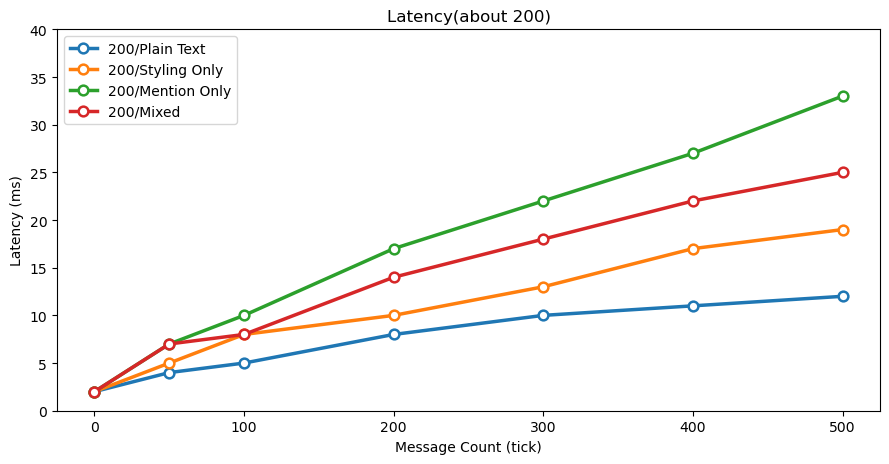
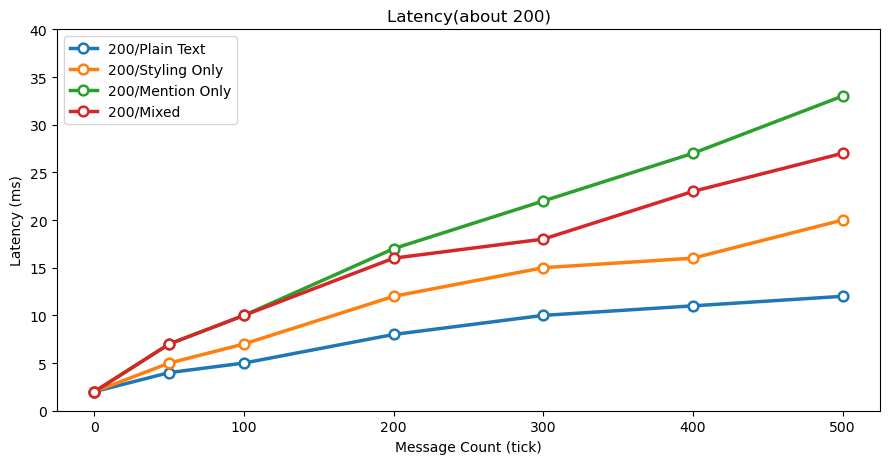
docs(README): refine TPS latency measurement description for clarity and accuracy

diff --git a/docs/README.md b/docs/README.md
@@ -16,19 +16,19 @@
 
 Use the following patterns directly in the chat window:
 
-| Feature         | Syntax            | Example                                                       | Preview                                                                                                 |
-|-----------------| ----------------- |---------------------------------------------------------------|---------------------------------------------------------------------------------------------------------|
-| Bold            | `**Text**`        | `**You really need to read this!**`                           | ![Bold](https://github.com/hanhy06/embellish-chat/blob/v2.4.0/%2B1.21.9/docs/images/Bold.png?raw=true)            |
-| Italic          | `_Text_`          | `_This is top secret..._`                                     | ![Italic](https://github.com/hanhy06/embellish-chat/blob/v2.4.0/%2B1.21.9/docs/images/Italic.png?raw=true)        |
-| Underline       | `__Text__`        | `__Check this out__`                                          | ![Underline](https://github.com/hanhy06/embellish-chat/blob/v2.4.0/%2B1.21.9/docs/images/Underline.png?raw=true)  |
-| Strikethrough   | `~~Text~~`        | `~~We don’t talk about this anymore~~`                        | ![Strike](https://github.com/hanhy06/embellish-chat/blob/v2.4.0/%2B1.21.9/docs/images/Strikethrough.png?raw=true) |
+| Feature         | Syntax            | Example                                                       | Preview                                                                                                            |
+|-----------------| ----------------- |---------------------------------------------------------------|--------------------------------------------------------------------------------------------------------------------|
+| Bold            | `**Text**`        | `**You really need to read this!**`                           | ![Bold](https://github.com/hanhy06/embellish-chat/blob/v2.4.0/%2B1.21.9/docs/images/Bold.png?raw=true)             |
+| Italic          | `_Text_`          | `_This is top secret..._`                                     | ![Italic](https://github.com/hanhy06/embellish-chat/blob/v2.4.0/%2B1.21.9/docs/images/Italic.png?raw=true)         |
+| Underline       | `__Text__`        | `__Check this out__`                                          | ![Underline](https://github.com/hanhy06/embellish-chat/blob/v2.4.0/%2B1.21.9/docs/images/Underline.png?raw=true)   |
+| Strikethrough   | `~~Text~~`        | `~~We don’t talk about this anymore~~`                        | ![Strike](https://github.com/hanhy06/embellish-chat/blob/v2.4.0/%2B1.21.9/docs/images/Strikethrough.png?raw=true)  |
 | Obfuscated      | `\|\|Text\|\|`    | `\|\|Unreadable text\|\|`                                     | ![Obfuscated](https://github.com/hanhy06/embellish-chat/blob/v2.4.0/%2B1.21.9/docs/images/Obfuscated.gif?raw=true) |
-| Color (Hex)     | `[Text]<#RRGGBB>` | `[Blue]<#0000FF> like the deep ocean`                         | ![Color](https://github.com/hanhy06/embellish-chat/blob/v2.4.0/%2B1.21.9/docs/images/Color_Hex.png?raw=true)      |
-| Color (Preset)  | `[Text]<preset>`  | `[pink]<pink> pig`                                            | ![Color](https://github.com/hanhy06/embellish-chat/blob/v2.4.0/%2B1.21.9/docs/images/Color_Preset.png?raw=true)   |
-| Color (Rainbow) | `[Text]<RAINBOW>` | `look at this [rainbow]<RAINBOW>`                             | ![Color](https://github.com/hanhy06/embellish-chat/blob/v2.4.0/%2B1.21.9/docs/images/Color_Rainbow.png?raw=true)  |
-| Link            | `[Text](URL)`     | `Download it [here](https://modrinth.com/mod/embellish-chat)` | ![Link](https://github.com/hanhy06/embellish-chat/blob/v2.4.0/%2B1.21.9/docs/images/Link.gif?raw=true)            |
-| Font            | `[Text]{path}`    | `[Blorp Zorp]{minecraft:alt}`                                 | ![Font](https://github.com/hanhy06/embellish-chat/blob/v2.4.0/%2B1.21.9/docs/images/Font.png?raw=true)            |
-| Mention         | `@PlayerName`     | `Hello, @User`                                                | ![Mention](https://github.com/hanhy06/embellish-chat/blob/v2.4.0/%2B1.21.9/docs/images/Mention.png?raw=true)      |
+| Color (Hex)     | `[Text]<#RRGGBB>` | `[Blue]<#0000FF> like the deep ocean`                         | ![Color](https://github.com/hanhy06/embellish-chat/blob/v2.4.0/%2B1.21.9/docs/images/Color_Hex.png?raw=true)       |
+| Color (Preset)  | `[Text]<preset>`  | `[pink]<pink> pig`                                            | ![Color](https://github.com/hanhy06/embellish-chat/blob/v2.4.0/%2B1.21.9/docs/images/Color_Preset.png?raw=true)    |
+| Color (Rainbow) | `[Text]<RAINBOW>` | `look at this [rainbow]<RAINBOW>`                             | ![Color](https://github.com/hanhy06/embellish-chat/blob/v2.4.0/%2B1.21.9/docs/images/Color_Rainbow.png?raw=true)   |
+| Link            | `[Text](URL)`     | `Download it [here](https://modrinth.com/mod/embellish-chat)` | ![Link](https://github.com/hanhy06/embellish-chat/blob/v2.4.0/%2B1.21.9/docs/images/Link.gif?raw=true)             |
+| Font            | `[Text]{path}`    | `[Blorp Zorp]{minecraft:alt}`                                 | ![Font](https://github.com/hanhy06/embellish-chat/blob/v2.4.0/%2B1.21.9/docs/images/Font.png?raw=true)             |
+| Mention         | `@PlayerName`     | `Hello, @User`                                                | ![Mention](https://github.com/hanhy06/embellish-chat/blob/v2.4.0/%2B1.21.9/docs/images/Mention.png?raw=true)       |
 
 > **Notes**
 >
@@ -262,16 +262,16 @@ The Text Placeholder API applies to the mention title, all presets used in rules
 
 The graph below shows the TPS (Ticks Per Second) latency measurements for this mod. Each test message contained approximately 200 or 50 characters, and the system was stressed by sending up to 10,000 (500 × 20) chat messages per second.
 
-| Type         | Length | Test String                                                                                                                                                                                            |
-|--------------|--------|--------------------------------------------------------------------------------------------------------------------------------------------------------------------------------------------------------|
-| Plain Text   | 50     | `This is a simple plain text message for latency test. `                                                                                                                                               |
-| Plain Text   | 200    | `This is a standard long message designed to test the baseline performance of the chat system. It contains simple alphanumeric characters and basic punctuation only, without any markdown triggers.`  |
-| Styling Only | 50     | `**Bold** _Italic_ [Red]<red> [Blue]<blue> ~~Strike~~`                                                                                                                                                 |
-| Styling Only | 200    | `Here is Bold Text and Italic. We use [Red Color], [Green], and [Blue]. Don't forget ~~Strikethrough~~ and`                                                                                            |
-| Mention Only | 50     | `Hello @everyone is anyone @here? calling @PlayerName`                                                                                                                                                 |
-| Mention Only | 200    | `Attention @everyone on the server. We are gathering @here now. If you are in @team(red) or @team(blue), please report to @PlayerOne. @group(admin) and @world(overworld) players should attend too.`  |
-| Mixed        | 50     | `**Hey** @everyone! Look at [this]<red> _cool_ @here.`                                                                                                                                                  |
-| Mixed        | 200    | `Attention @everyone! Please gather @here immediately. [Red Team] go to @team(red) and [Blue Team] go to @team(blue). Contact @admin if you have any questions about the`                               |
+| Type         | Length | Test String                                                                                                                                                                                                                  |
+|--------------|--------|------------------------------------------------------------------------------------------------------------------------------------------------------------------------------------------------------------------------------|
+| Plain Text   | 50     | `This is a simple plain text message for latency test.`                                                                                                                                                                      |
+| Plain Text   | 200    | `This is a standard long message designed to test the baseline performance of the chat system. It contains simple alphanumeric characters and basic punctuation only, without any markdown triggers.`                        |
+| Styling Only | 50     | `**Bold** _Italic_ [Red]<red> [Blue]<blue> ~~Strike~~`                                                                                                                                                                       |
+| Styling Only | 200    | `**Welcome** to the server! Please read the [rules]<#FF5555> at spawn. _Need help?_ Ask an admin! There is a **secret event** starting soon at the arena. Don't miss the [LEGENDARY PRIZES]<RAINBOW>!`                       |
+| Mention Only | 50     | `Hello @everyone is anyone @here? calling @PlayerName`                                                                                                                                                                       |
+| Mention Only | 200    | `Attention @everyone on the server. We are gathering @here now. If you are in @team(red) or @team(blue), please report to @PlayerOne. @group(admin) and @world(overworld) players should attend too.`                        |
+| Mixed        | 50     | `**Hey** @everyone! Look at [this]<red> _cool_ @here.`                                                                                                                                                                       |
+| Mixed        | 200    | `Attention @everyone! The **Boss Raid** is starting. @team(Red) please defend the [Core]<#FF0000>. @here gather at the gate! Watch out for the **hidden assassin**. The prize is [GOD SWORD]<RAINBOW>. Msg @Admin if stuck.` |
 
 
 ![Latency](https://github.com/hanhy06/embellish-chat/blob/v2.4.0/%2B1.21.9/docs/images/Latency2.4.0-50.png?raw=true)
